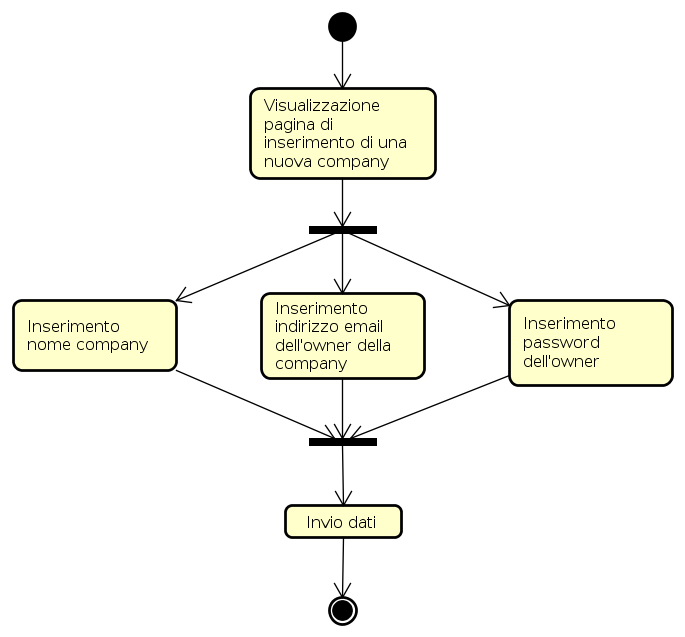
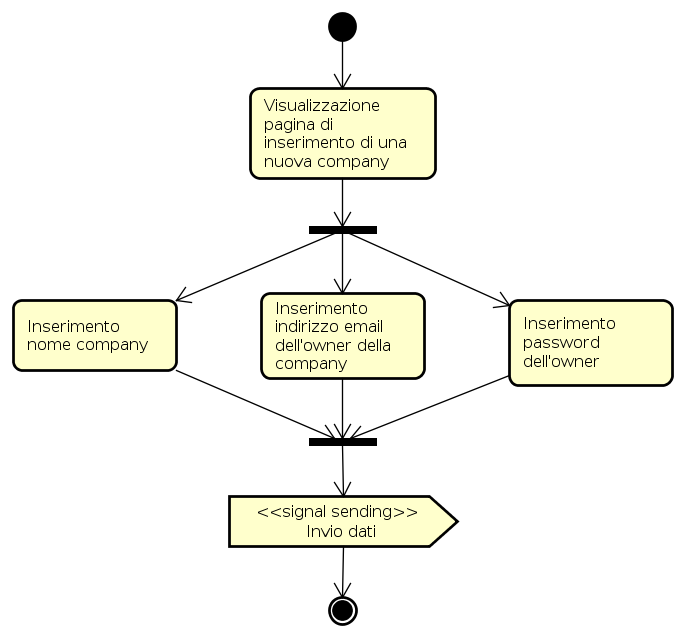
Use signals instead of actions in request sending

Changed region(s): [[0.3066, 0.7457, 0.6745, 0.865]]

diff --git a/official/SpecificaTecnica/res/sections/activitiesDiagrams.tex b/official/SpecificaTecnica/res/sections/activitiesDiagrams.tex
@@ -60,10 +60,11 @@ L'utente non autenticato deve inserire, in una casella di testo, il codice segre
 \end{center}
 \end{figure}
 L'utente non autenticato che crea una company viene registrato come suo owner. È pertanto necessario fornire, durante la procedura di creazione, l'indirizzo email e la password dell'utente, oltre che il nome della company stessa.
+\newpage
 \subsection{Utente autenticato}
 \begin{figure}[H]
 \begin{center}
-\includegraphics[height=12cm]{res/sections/backend/activities/principaliConAuth.png}
+\includegraphics[width=18cm,angle=90]{res/sections/backend/activities/principaliConAuth.png}
 \caption{Attività principali per un utente autenticato}
 \end{center}
 \end{figure}
@@ -168,7 +169,7 @@ Durante la gestione di un document, l'utente autenticato può fare una delle seg
 \subparagraph{Gestione collection} \mbox{} \\
 \begin{figure}[H]
 \begin{center}
-\includegraphics[height=12cm]{res/sections/backend/activities/gestioneCollection.png}
+\includegraphics[width=16cm]{res/sections/backend/activities/gestioneCollection.png}
 \caption{Gestione collection}
 \end{center}
 \end{figure}
@@ -191,7 +192,7 @@ Un utente autenticato, admin o owner, può modificare, o rimuovere, i permessi d
 \subsubsection{Operazioni sugli utenti}
 \begin{figure}[H]
 \begin{center}
-\includegraphics[height=12cm]{res/sections/backend/activities/operazioniSuUtenti.png}
+\includegraphics[height=12cm]{res/sections/backend/activities/gestioneUtenti.png}
 \caption{Operazioni sugli utenti}
 \end{center}
 \end{figure}
@@ -338,7 +339,7 @@ Una volta visualizato l'elenco degli utenti iscritti alla comapny, il super admi
 \subsubsection{Aggiunta di un super admin}
 \begin{figure}[H]
 \begin{center}
-\includegraphics[height=12cm]{res/sections/backend/activities/aggiuntaSuperAdminSA.png}
+\includegraphics[height=12cm]{res/sections/backend/activities/aggiuntaSuperAdmin.png}
 \caption{Aggiunta super admin}
 \end{center}
 \end{figure}
